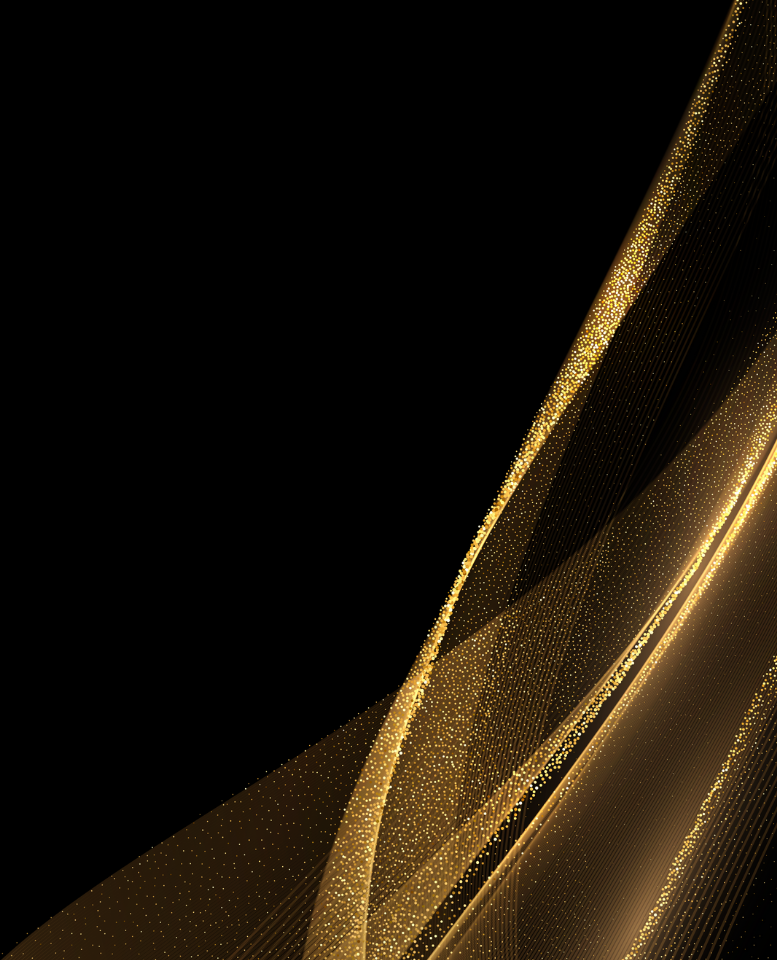
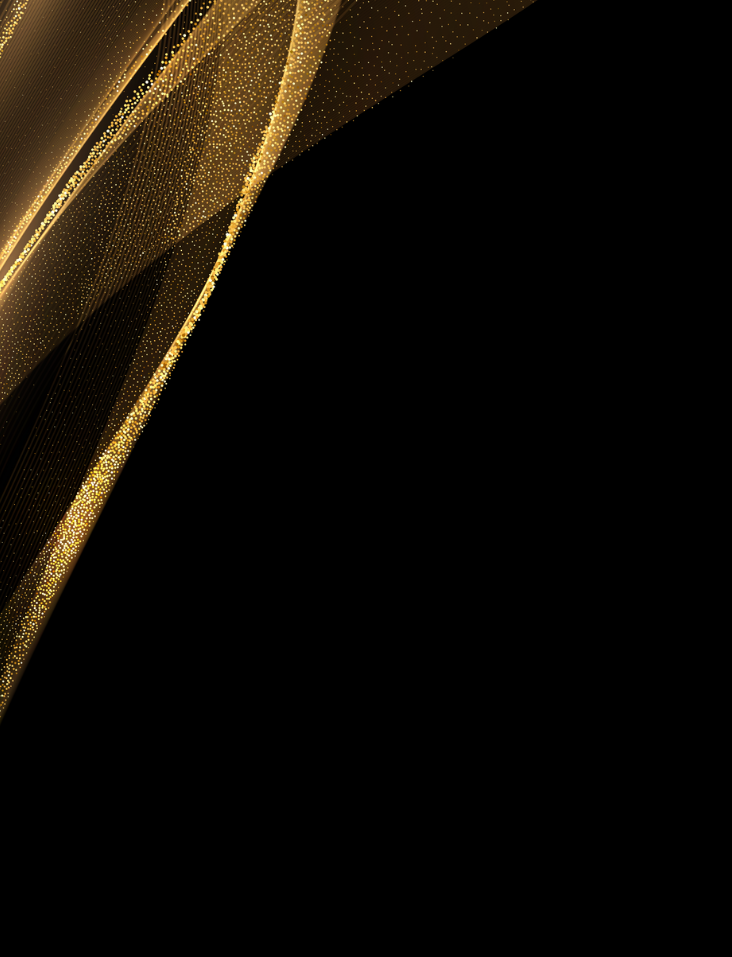
completed interview desktop view; minor tweaks to mobile view

diff --git a/src/components/Interview/DesktopInterview.js b/src/components/Interview/DesktopInterview.js
@@ -5,9 +5,25 @@ import InterviewStyle from "./css/Interview.module.css";
 // import BackgroundImage from "../../../images/";
 
 const DesktopInterview = () => {
+
+    const mainCon = InterviewStyle.mainCon;
+    const imgCornerLeft = InterviewStyle.imgCornerLeft;
+    const imgCornerRight = InterviewStyle.imgCornerRight;
+    const contentCon = InterviewStyle.contentCon;
+    const h1Style = InterviewStyle.h1Style;
+    const videoCon = InterviewStyle.videoCon;
+
     return (
-        <main>
-            DesktopInterview is working!
+        <main className={mainCon}>
+            <div className={imgCornerLeft}></div>
+            <div className={imgCornerRight}></div>
+            <section className={contentCon}>
+                <h1 className={h1Style}><span>Life's Chapter 1</span></h1>
+                <h1 className={h1Style}>Herman's Exclusive Interview</h1>
+                <div className={videoCon}>
+                    <iframe src="https://www.facebook.com/plugins/video.php?height=314&href=https%3A%2F%2Fwww.facebook.com%2FDrSuccessMan%2Fvideos%2F5855939064510164%2F&show_text=false&width=560&t=0" scrolling="no" frameborder="0" allowfullscreen="true" allow="autoplay; clipboard-write; encrypted-media; picture-in-picture; web-share" allowFullScreen="true"></iframe>
+                </div>
+            </section>
         </main>
     )
 }

diff --git a/src/components/Interview/css/Interview.module.css b/src/components/Interview/css/Interview.module.css
@@ -16,6 +16,7 @@
     display: flex;
     flex-direction: column;
     align-items: center;
+    overflow: hidden;
 }
 
 .imgBackground {
@@ -42,6 +43,32 @@
     aspect-ratio: 693 / 541;
 
     /* border: red 2px dashed; */
+}
+
+.imgCornerLeft {
+    position: absolute;
+    z-index: 2;
+    top: 0;
+    left: 0;
+
+    width: 65%;
+    aspect-ratio: 732 / 957;
+
+    background-image: url("../../../images/interview-images/left-corner.png");
+    background-size: cover;
+}
+
+.imgCornerRight {
+    position: absolute;
+    z-index: 2;
+    bottom: 0;
+    right: -14vw;
+
+    width: 65%;
+    aspect-ratio: 777 / 960;
+
+    background-image: url("../../../images/interview-images/right-corner.png");
+    background-size: cover;
 }
 
 .contentCon {
@@ -97,5 +124,32 @@
 }
 
 @media screen and (min-width:600px) {
+    .mainCon {
+        width: 100%;
+        background-color: black;
+    }
 
+    .contentCon {
+
+    }
+    
+    .h1Style {
+        width: 100%;
+        font-size: 5vw;
+        line-height: 5vw;
+        letter-spacing: 0.2vw;
+    }
+    
+    .h1Style > span {
+        color: #a88d4d;
+    }
+    
+    .videoCon {
+        margin-top: 1vw;
+        border: #3b1c48 solid 1vw;
+    }
+    
+    .videoCon > iframe {
+
+    }
 }

diff --git a/src/components/Interview/Interview.js b/src/components/Interview/Interview.js
@@ -27,14 +27,14 @@ const Interview = () => {
                 <main className={mainCon}>
                     <div className={imgBackground}></div>
                     <div className={imgTopper}></div>
-                    <div className={contentCon}>
+                    <section className={contentCon}>
                         <div className={imgSpeakerIcon}></div>
                         <h1 className={h1Style}><span>Life's Chapter 1</span></h1>
                         <h1 className={h1Style}>Herman's Exclusive Interview</h1>
                         <div className={videoCon}>
                             <iframe src="https://www.facebook.com/plugins/video.php?height=314&href=https%3A%2F%2Fwww.facebook.com%2FDrSuccessMan%2Fvideos%2F5855939064510164%2F&show_text=false&width=560&t=0" scrolling="no" frameborder="0" allowfullscreen="true" allow="autoplay; clipboard-write; encrypted-media; picture-in-picture; web-share" allowFullScreen="true"></iframe>
                         </div>
-                    </div>
+                    </section>
                 </main>
             }
 
